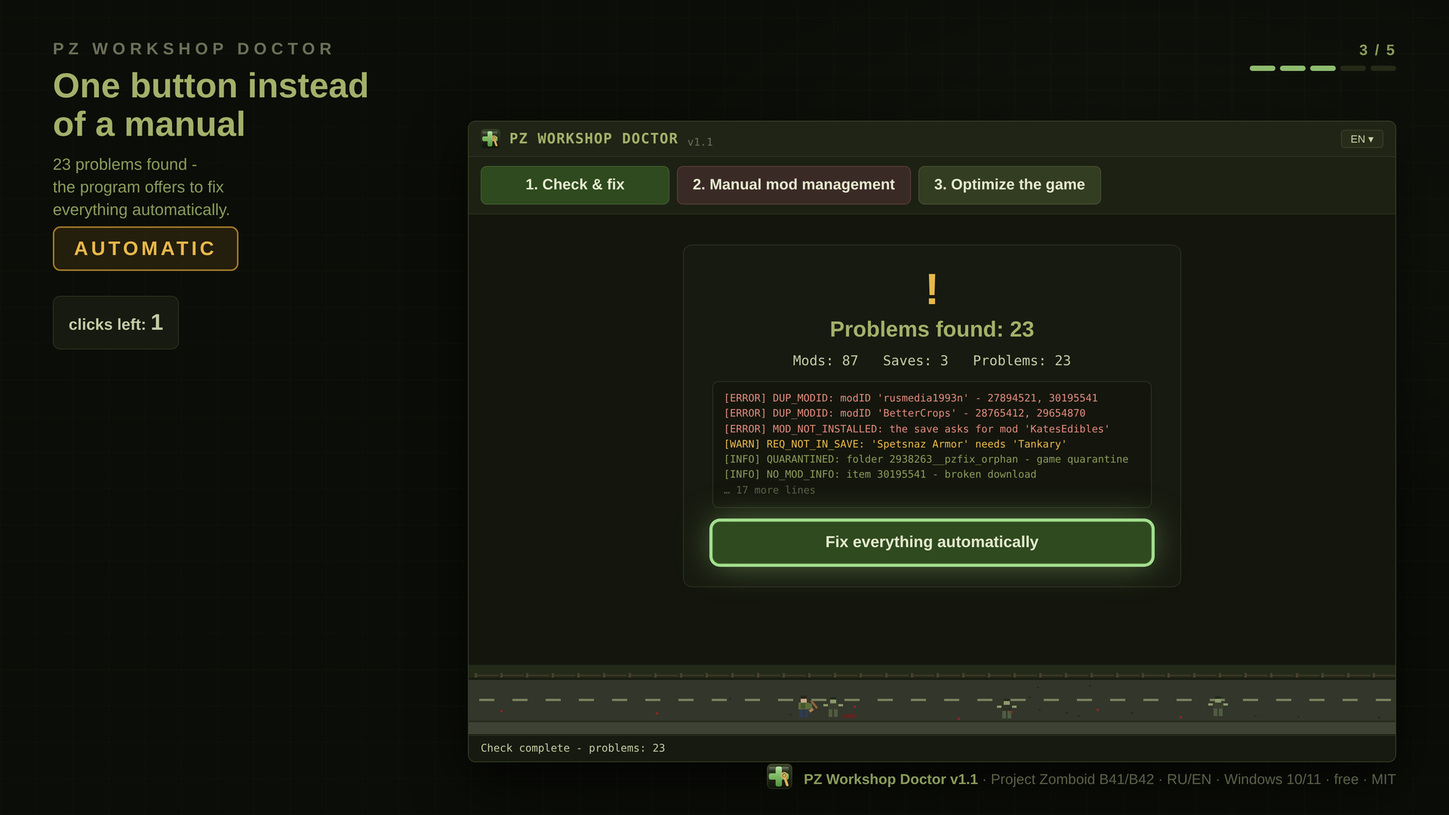
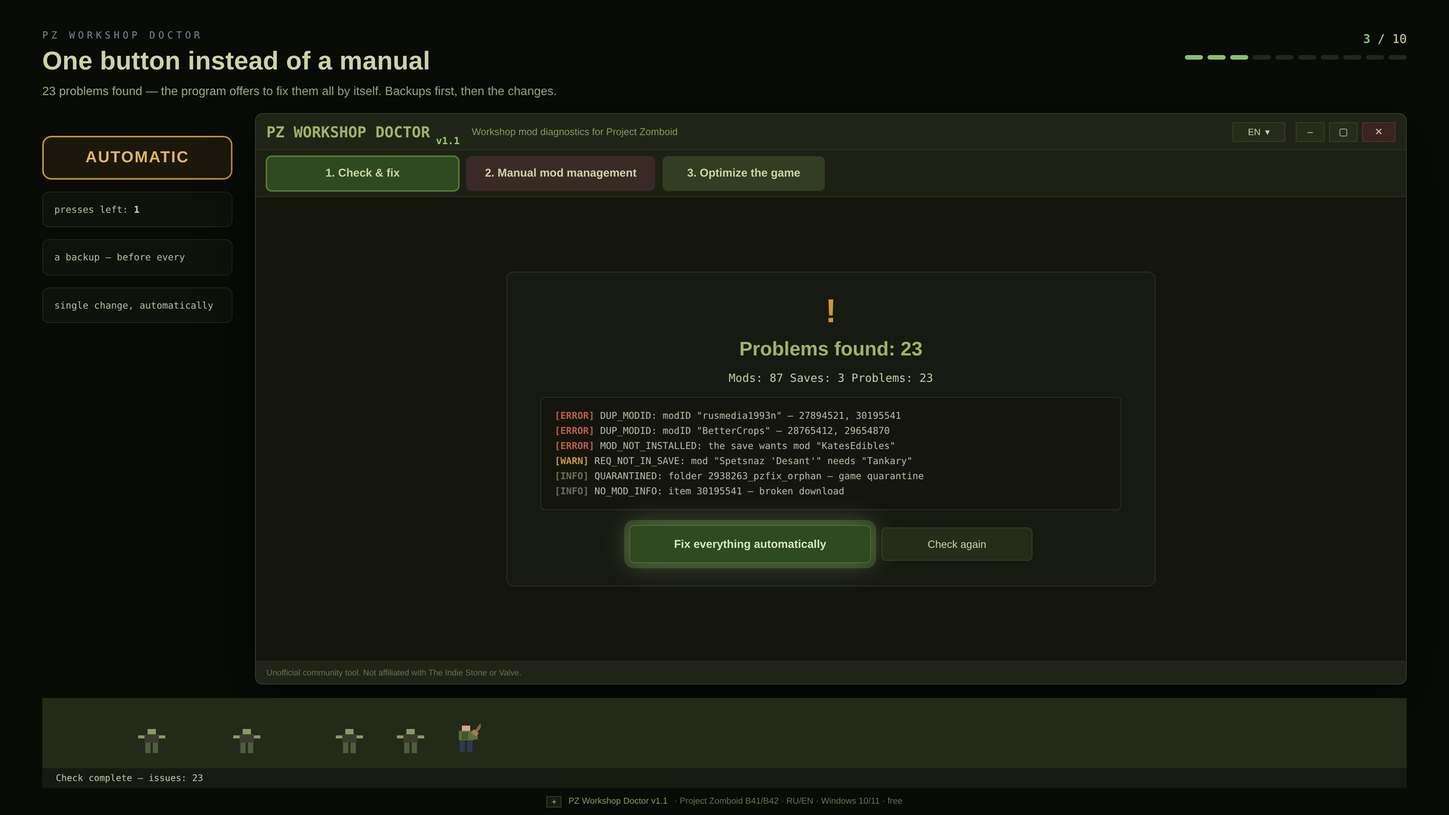
10 screenshots per language covering every area of the program: the gallery and both READMEs now walk the whole story — before (23 problems), scan, the one button, auto-download of missing mods, orphan disabling, after (23->0), manual mode, Workshop details, the optimizer and the CLI. New EN set ren

diff --git a/docs/gallery.html b/docs/gallery.html
@@ -158,18 +158,28 @@ footer a:hover{text-decoration:underline}
 'use strict';
 var SHOTS = {
   en: [
-    {file:'img/workshop/v1.1/en/shot-1-before.png', title:'Before — the whole pile of problems', cap:'The whole pile of problems, in one window.', alt:'Before: the whole pile of problems in one window'},
-    {file:'img/workshop/v1.1/en/shot-2-scan.png',   title:'Scan — the survivor walks the road',   cap:'Nothing runs until you press it — then the walk is the progress bar.', alt:'Scan: the survivor walks the road'},
-    {file:'img/workshop/v1.1/en/shot-4-after.png',  title:'After — the street is clean',          cap:'He made it to the end: the street is clean — you survived.', alt:'After: the street is clean — you survived'},
-    {file:'img/workshop/v1.1/en/shot-3-button.png', title:'One button instead of a manual',       cap:'23 problems found — "Fix everything automatically" does the rest, backups first.', alt:'Fix everything automatically'},
-    {file:'img/workshop/v1.1/en/shot-5-buttons.png',title:'Manual mode — the table obeys you',    cap:'Click any column to sort (status sorts by meaning, ticked rows rise to the top), tick rows, then "Enable checked" / "Disable checked".', alt:'The sortable mods table'}
+    {file:'img/workshop/v1.1/en/shot-1-before.png',     title:'Before — the whole pile of problems',  cap:'The game won\'t load the mods, half are off, the logs are a wall of errors. One run — and the whole picture is on the table.', alt:'Before: the whole pile of problems in one window'},
+    {file:'img/workshop/v1.1/en/shot-2-scan.png',       title:'Scan — nothing to configure',           cap:'One press of the green button — Steam, the game, the mods and the saves are found by themselves. The road below is the progress bar.', alt:'Scan: the survivor walks the road'},
+    {file:'img/workshop/v1.1/en/shot-3-button.png',     title:'One button instead of a manual',        cap:'23 problems found — "Fix everything automatically" does the rest, backups first.', alt:'Fix everything automatically'},
+    {file:'img/workshop/v1.1/en/shot-4-download.png',   title:'Missing mods download themselves',       cap:'A require= entry is looked up in the Workshop — the subscribe page opens, Steam downloads, the program notices and re-checks by itself.', alt:'Missing mods download themselves'},
+    {file:'img/workshop/v1.1/en/shot-5-orphans.png',    title:'Orphans die for good',                  cap:'The required mod is gone from the Workshop? The mods that need it are cleanly disabled in the saves — with a backup, and the warnings die for good.', alt:'Orphaned requirements are disabled with a backup'},
+    {file:'img/workshop/v1.1/en/shot-6-after.png',      title:'After — the street is clean',           cap:'Quarantine removed, broken downloads reinstalled, missing mods fetched — 23 → 0, everything in the repair log.', alt:'After: the street is clean — you survived'},
+    {file:'img/workshop/v1.1/en/shot-7-manual.png',     title:'Manual mode — the table obeys you',     cap:'Click any column to sort (status sorts by meaning, ticked rows rise to the top), tick rows, then "Enable checked" / "Disable checked".', alt:'The sortable mods table'},
+    {file:'img/workshop/v1.1/en/shot-8-details.png',    title:'Details — a full dossier on the mod',   cap:'Select a row: modID, paths and requirements on top, the live Workshop description below — tags, size, update date.', alt:'Mod details with the live Workshop description'},
+    {file:'img/workshop/v1.1/en/shot-9-optimizer.png',  title:'Optimizer — real, and everything rolls back', cap:'Game memory (-Xmx), Steam launch options, junk logs — every change is one button away from being undone.', alt:'The optimizer view'},
+    {file:'img/workshop/v1.1/en/shot-10-cli.png',       title:'CLI — the whole report in the terminal', cap:'-Cli -AutoFix in one command: same engine, same backups, zero windows.', alt:'CLI report and auto-fix in the terminal'}
   ],
   ru: [
-    {file:'img/workshop/v1.1/ru/shot-1-before.png', title:'До — вся куча проблем',                cap:'Вся куча проблем — в одном окне.', alt:'До: вся куча проблем в одном окне'},
-    {file:'img/workshop/v1.1/ru/shot-2-scan.png',   title:'Проверка — выживший идёт по дороге',  cap:'Ничего не происходит само — нажали, и прогулка стала прогрессом.', alt:'Проверка: выживший идёт по дороге'},
-    {file:'img/workshop/v1.1/ru/shot-4-after.png',  title:'После — улица чиста',                  cap:'Дошёл до конца: улица чиста — ты выжил.', alt:'После: улица чиста — ты выжил'},
-    {file:'img/workshop/v1.1/ru/shot-3-button.png', title:'Одна кнопка вместо инструкции',        cap:'23 проблемы найдены — «Исправить всё автоматически» сделает остальное, сначала бэкапы.', alt:'Исправить всё автоматически'},
-    {file:'img/workshop/v1.1/ru/shot-5-buttons.png',title:'Ручной режим — таблица слушается вас', cap:'Клик по любой колонке сортирует таблицу (статус — по смыслу, отмеченные поднимаются наверх), галочка выбирает строку — дальше «Включить отмеченные» / «Отключить отмеченные».', alt:'Сортируемая таблица модов'}
+    {file:'img/workshop/v1.1/ru/shot-1-before.png',     title:'До — вся куча проблем',                 cap:'Игра не грузит моды, половина выключена, в логах — стена ошибок. Один запуск — и вся картина видна целиком.', alt:'До: вся куча проблем в одном окне'},
+    {file:'img/workshop/v1.1/ru/shot-2-scan.png',       title:'Проверка — настраивать нечего',         cap:'Одно нажатие зелёной кнопки — Steam, игра, моды и сейвы находятся сами. Дорога внизу — индикатор прогресса.', alt:'Проверка: выживший идёт по дороге'},
+    {file:'img/workshop/v1.1/ru/shot-3-button.png',     title:'Одна кнопка вместо инструкции',         cap:'23 проблемы найдены — «Исправить всё автоматически» сделает остальное, сначала бэкапы.', alt:'Исправить всё автоматически'},
+    {file:'img/workshop/v1.1/ru/shot-4-download.png',   title:'Недостающие моды качаются сами',        cap:'Требование из require= ищется в Мастерской — страница подписки открывается сама, Steam качает, программа замечает и до-проверяет сама.', alt:'Недостающие моды скачиваются автоматически'},
+    {file:'img/workshop/v1.1/ru/shot-5-orphans.png',    title:'Сироты гасятся навсегда',               cap:'Требуемого мода в Мастерской нет? Зависимые моды аккуратно отключаются в сейвах — с бэкапом, и предупреждения исчезают навсегда.', alt:'Сиротские зависимости отключаются с бэкапом'},
+    {file:'img/workshop/v1.1/ru/shot-6-after.png',      title:'После — улица чиста',                   cap:'Карантин удалён, битые загрузки переустановлены, недостающие моды скачаны — 23 → 0, всё в журнале ремонтов.', alt:'После: улица чиста — ты выжил'},
+    {file:'img/workshop/v1.1/ru/shot-7-manual.png',     title:'Ручной режим — таблица слушается вас',  cap:'Клик по любой колонке сортирует таблицу (статус — по смыслу, отмеченные поднимаются наверх), галочка выбирает строку — дальше «Включить отмеченные» / «Отключить отмеченные».', alt:'Сортируемая таблица модов'},
+    {file:'img/workshop/v1.1/ru/shot-8-details.png',    title:'Детали — полное досье на мод',          cap:'Выберите строку: modID, пути и зависимости наверху, живое описание из Мастерской ниже — теги, размер, дата обновления.', alt:'Детали мода с живым описанием из Мастерской'},
+    {file:'img/workshop/v1.1/ru/shot-9-optimizer.png',  title:'Оптимизатор — настоящее, всё обратимо', cap:'Память игры (-Xmx), параметры запуска Steam, мусорные логи — каждое изменение откатывается одной кнопкой.', alt:'Окно оптимизатора'},
+    {file:'img/workshop/v1.1/ru/shot-10-cli.png',       title:'CLI — весь отчёт в терминале',          cap:'-Cli -AutoFix одной командой: тот же движок, те же бэкапы, ноль окон.', alt:'CLI-отчёт и автопочинка в терминале'}
   ]
 };
 var T = {

diff --git a/README.ru.md b/README.ru.md
@@ -14,15 +14,29 @@
 
 Неофициальный доктор модов для **Project Zomboid** (Steam Workshop). Один файл, одно окно, одна кнопка: сам сканирует Steam, сейвы и все моды, находит то, что внутриигровой менеджер не видит в принципе, и сам чинит — сначала бэкапы. Пока идёт проверка, выживший идёт по дороге внизу, уворачиваясь от толпы зомби позади — **его прогулка и есть индикатор прогресса**: когда всё закончено, он доходит до конца дороги, окно выводит «УЛИЦА ЧИСТА — ТЫ ВЫЖИЛ!» — а зомби умирают. А если что-то ломается — толпа его догоняет и съедает.
 
-| Сам находит всё | Одна зелёная кнопка | Готово |
-|---|---|---|
-| [![До: вся куча проблем в одном окне](docs/img/workshop/v1.1/ru/shot-1-before.png)](https://genocide12.github.io/pz-workshop-doctor/gallery.html#ru-1) | [![Проверка: выживший идёт по дороге](docs/img/workshop/v1.1/ru/shot-2-scan.png)](https://genocide12.github.io/pz-workshop-doctor/gallery.html#ru-2) | [![После: улица чиста — ты выжил](docs/img/workshop/v1.1/ru/shot-4-after.png)](https://genocide12.github.io/pz-workshop-doctor/gallery.html#ru-3) |
-| Вся куча проблем — в одном окне. | Ничего не происходит само — нажали, и прогулка стала прогрессом. | Дошёл до конца: улица чиста — ты выжил. |
+**Проверка — от кучи проблем до чистой улицы**
 
-| Одна кнопка вместо инструкции | Ручной режим: таблица слушается вас |
+| До | Проверка | Одна кнопка |
+|---|---|---|
+| [![До: вся куча проблем в одном окне](docs/img/workshop/v1.1/ru/shot-1-before.png)](https://genocide12.github.io/pz-workshop-doctor/gallery.html#ru-1) | [![Проверка: выживший идёт по дороге](docs/img/workshop/v1.1/ru/shot-2-scan.png)](https://genocide12.github.io/pz-workshop-doctor/gallery.html#ru-2) | [![Исправить всё автоматически](docs/img/workshop/v1.1/ru/shot-3-button.png)](https://genocide12.github.io/pz-workshop-doctor/gallery.html#ru-3) |
+| Игра не грузит моды, половина выключена, в логах — стена ошибок: один запуск показывает всю картину. | Одно нажатие зелёной кнопки — Steam, игра, моды и сейвы находятся сами; дорога внизу — индикатор прогресса. | 23 проблемы найдены — «Исправить всё автоматически» сделает остальное, сначала бэкапы. |
+
+| Недостающие моды | Сироты | После |
+|---|---|---|
+| [![Недостающие моды скачиваются автоматически](docs/img/workshop/v1.1/ru/shot-4-download.png)](https://genocide12.github.io/pz-workshop-doctor/gallery.html#ru-4) | [![Сиротские зависимости отключаются с бэкапом](docs/img/workshop/v1.1/ru/shot-5-orphans.png)](https://genocide12.github.io/pz-workshop-doctor/gallery.html#ru-5) | [![После: улица чиста — ты выжил](docs/img/workshop/v1.1/ru/shot-6-after.png)](https://genocide12.github.io/pz-workshop-doctor/gallery.html#ru-6) |
+| Требование из require= ищется в Мастерской — страница подписки открывается сама, Steam качает, программа замечает и до-проверяет сама. | Требуемого мода в Мастерской нет? Зависимые моды аккуратно отключаются в сейвах — с бэкапом, и предупреждения исчезают навсегда. | Карантин удалён, битые загрузки переустановлены, недостающие моды скачаны — 23 → 0, всё в журнале ремонтов. |
+
+**Ручное управление, детали, оптимизатор, терминал**
+
+| Ручной режим | Детали |
 |---|---|
-| [![Исправить всё автоматически](docs/img/workshop/v1.1/ru/shot-3-button.png)](https://genocide12.github.io/pz-workshop-doctor/gallery.html#ru-4) | [![Сортируемая таблица модов](docs/img/workshop/v1.1/ru/shot-5-buttons.png)](https://genocide12.github.io/pz-workshop-doctor/gallery.html#ru-5) |
-| 23 проблемы найдены — «Исправить всё автоматически» сделает остальное, сначала бэкапы. | Клик по любой колонке сортирует таблицу (статус — по смыслу, отмеченные поднимаются наверх), галочка выбирает строку — дальше «Включить отмеченные» / «Отключить отмеченные». |
+| [![Сортируемая таблица модов](docs/img/workshop/v1.1/ru/shot-7-manual.png)](https://genocide12.github.io/pz-workshop-doctor/gallery.html#ru-7) | [![Детали мода с живым описанием из Мастерской](docs/img/workshop/v1.1/ru/shot-8-details.png)](https://genocide12.github.io/pz-workshop-doctor/gallery.html#ru-8) |
+| Клик по любой колонке сортирует таблицу (статус — по смыслу, отмеченные поднимаются наверх), галочка выбирает строку — дальше «Включить отмеченные» / «Отключить отмеченные». | Выберите строку: modID, пути и зависимости наверху, живое описание из Мастерской ниже — теги, размер, дата обновления. |
+
+| Оптимизатор | CLI |
+|---|---|
+| [![Окно оптимизатора](docs/img/workshop/v1.1/ru/shot-9-optimizer.png)](https://genocide12.github.io/pz-workshop-doctor/gallery.html#ru-9) | [![CLI-отчёт и автопочинка в терминале](docs/img/workshop/v1.1/ru/shot-10-cli.png)](https://genocide12.github.io/pz-workshop-doctor/gallery.html#ru-10) |
+| Память игры (-Xmx), параметры запуска Steam, мусорные логи — каждое изменение откатывается одной кнопкой. | -Cli -AutoFix одной командой: тот же движок, те же бэкапы, ноль окон. |
 
 ## Установка (30 секунд)
 

diff --git a/README.md b/README.md
@@ -14,15 +14,29 @@
 
 Unofficial mod doctor for **Project Zomboid** (Steam Workshop). One file, one window, one button: it scans Steam, the saves and every mod by itself, finds the problems the in-game manager cannot see, and fixes them — backups first. While it works, a survivor walks the road along the bottom, the horde shambling behind him — **his walk is the progress bar**: when the round ends he reaches the end of the road, the window reads "THE STREET IS CLEAN — YOU SURVIVED", and the zombies drop dead. When something breaks, the horde catches him and eats him instead.
 
-| It finds everything by itself | One green button | Done |
-|---|---|---|
-| [![Before: the whole pile of problems in one window](docs/img/workshop/v1.1/en/shot-1-before.png)](https://genocide12.github.io/pz-workshop-doctor/gallery.html#en-1) | [![Scan: the survivor walks the road](docs/img/workshop/v1.1/en/shot-2-scan.png)](https://genocide12.github.io/pz-workshop-doctor/gallery.html#en-2) | [![After: the street is clean — you survived](docs/img/workshop/v1.1/en/shot-4-after.png)](https://genocide12.github.io/pz-workshop-doctor/gallery.html#en-3) |
-| The whole pile of problems, in one window. | Nothing runs until you press it — then the walk is the progress bar. | He made it to the end: the street is clean — you survived. |
+**The check — from a pile of problems to a clean street**
 
-| One button instead of a manual | Manual mode: the table obeys you |
+| Before | The scan | One button |
+|---|---|---|
+| [![Before: the whole pile of problems in one window](docs/img/workshop/v1.1/en/shot-1-before.png)](https://genocide12.github.io/pz-workshop-doctor/gallery.html#en-1) | [![Scan: the survivor walks the road](docs/img/workshop/v1.1/en/shot-2-scan.png)](https://genocide12.github.io/pz-workshop-doctor/gallery.html#en-2) | [![Fix everything automatically](docs/img/workshop/v1.1/en/shot-3-button.png)](https://genocide12.github.io/pz-workshop-doctor/gallery.html#en-3) |
+| The game won't load the mods, half are off, the logs are a wall of errors — one run shows the whole picture. | One press of the green button — Steam, the game, the mods and the saves are found by themselves; the road below is the progress bar. | 23 problems found — "Fix everything automatically" does the rest, backups first. |
+
+| Missing mods | Orphans | After |
+|---|---|---|
+| [![Missing mods download themselves](docs/img/workshop/v1.1/en/shot-4-download.png)](https://genocide12.github.io/pz-workshop-doctor/gallery.html#en-4) | [![Orphaned requirements are disabled with a backup](docs/img/workshop/v1.1/en/shot-5-orphans.png)](https://genocide12.github.io/pz-workshop-doctor/gallery.html#en-5) | [![After: the street is clean — you survived](docs/img/workshop/v1.1/en/shot-6-after.png)](https://genocide12.github.io/pz-workshop-doctor/gallery.html#en-6) |
+| A require= entry is looked up in the Workshop — the subscribe page opens, Steam downloads, the program notices and re-checks by itself. | The required mod is gone from the Workshop? The mods that need it are cleanly disabled in the saves — with a backup, and the warnings die for good. | Quarantine removed, broken downloads reinstalled, missing mods fetched — 23 → 0, everything in the repair log. |
+
+**Manual management, details, optimizer, terminal**
+
+| Manual mode | Details |
 |---|---|
-| [![Fix everything automatically](docs/img/workshop/v1.1/en/shot-3-button.png)](https://genocide12.github.io/pz-workshop-doctor/gallery.html#en-4) | [![The sortable mods table](docs/img/workshop/v1.1/en/shot-5-buttons.png)](https://genocide12.github.io/pz-workshop-doctor/gallery.html#en-5) |
-| 23 problems found — "Fix everything automatically" does the rest, backups first. | Click any column to sort (status sorts by meaning, ticked rows rise to the top), tick rows, then "Enable checked" / "Disable checked". |
+| [![The sortable mods table](docs/img/workshop/v1.1/en/shot-7-manual.png)](https://genocide12.github.io/pz-workshop-doctor/gallery.html#en-7) | [![Mod details with the live Workshop description](docs/img/workshop/v1.1/en/shot-8-details.png)](https://genocide12.github.io/pz-workshop-doctor/gallery.html#en-8) |
+| Click any column to sort (status sorts by meaning, ticked rows rise to the top), tick rows, then "Enable checked" / "Disable checked". | Select a row: modID, paths and requirements on top, the live Workshop description below — tags, size, update date. |
+
+| Optimizer | CLI |
+|---|---|
+| [![The optimizer view](docs/img/workshop/v1.1/en/shot-9-optimizer.png)](https://genocide12.github.io/pz-workshop-doctor/gallery.html#en-9) | [![CLI report and auto-fix in the terminal](docs/img/workshop/v1.1/en/shot-10-cli.png)](https://genocide12.github.io/pz-workshop-doctor/gallery.html#en-10) |
+| Game memory (-Xmx), Steam launch options, junk logs — every change is one button away from being undone. | -Cli -AutoFix in one command: same engine, same backups, zero windows. |
 
 ## Install (30 seconds)
 
